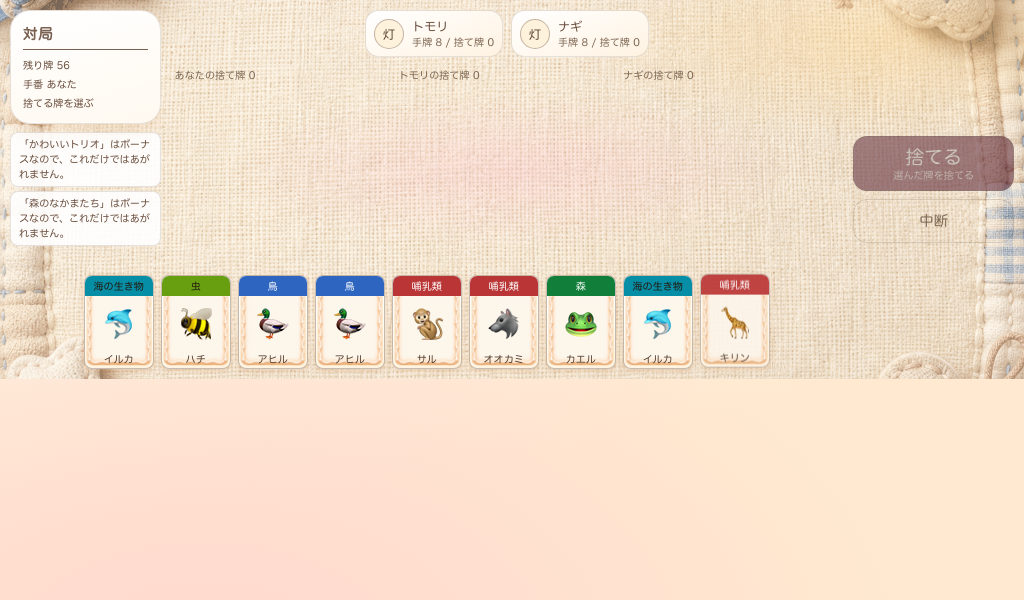
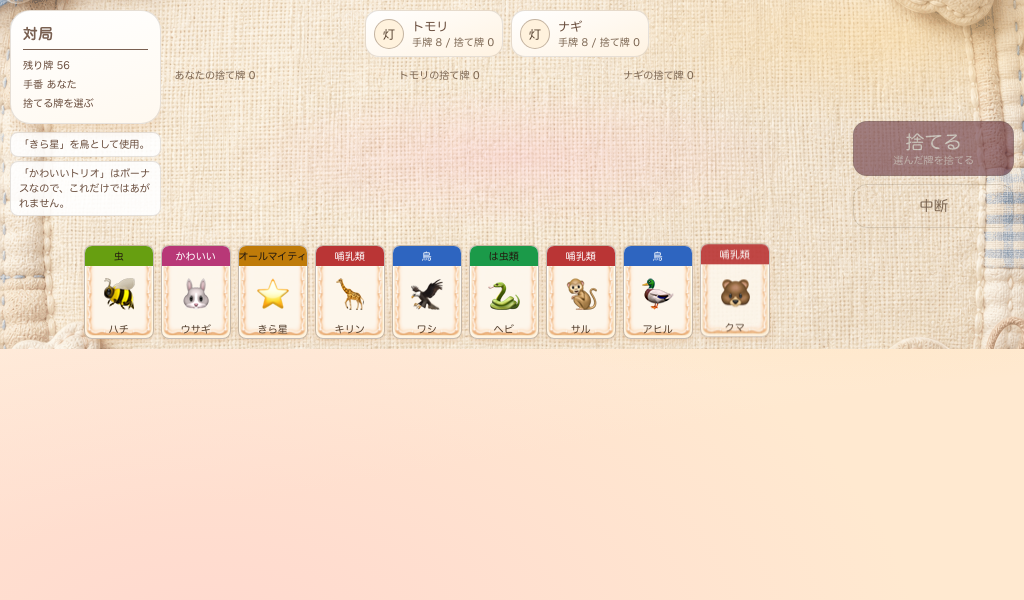
docs(qa): correct Gate 6 totals and recovery guarantees
Two inaccuracies in the Batch 6 / Gate 6 report, found by re-running
every verification command fresh rather than trusting the prior
report's numbers:

1. Total automated check count. The original "430" figure
   (330 + 70 + 5 + 7 + 18) correctly avoided double-counting
   pnpm skin:validate's 18 tests (they are the identical 18 test cases
   already inside pnpm test's 330 — skin:validate just re-runs one
   already-covered file narrower) but accidentally omitted
   asset:image:test's 92 independent pytest cases entirely. A naive
   sum of every number in the summary table ("540") makes the opposite
   mistake, double-counting skin:validate's 18. Both errors resolve to
   the same corrected figure: 330 + 92 + 70 + 5 + 7 + 18 = 522
   independent pass/fail test cases, with pnpm typecheck and pnpm build
   now labeled as separate verification results rather than folded
   into the test-case count.

2. "Lossless" recovery wording. The report described quota-exceeded
   write recovery and corrupted-deck-entry salvage as producing "zero
   data loss," without stating the actual guarantee boundary. Quota-
   exceeded recovery keeps the in-session draft on screen and does not
   overwrite already-persisted data, but does not guarantee recovering
   an unsaved draft after a reload. Corrupted-entry salvage keeps
   healthy, unrelated deck entries from being wiped out by one bad
   entry, but does not itself fully recover a genuinely unrecoverable
[…]

diff --git a/docs/qa/BATCH-6-GATE-6-REPORT.md b/docs/qa/BATCH-6-GATE-6-REPORT.md
@@ -180,16 +180,40 @@ green.
   monkey-patch (real quota exhaustion is not practical to trigger in a
   test environment) at both the unit-test and real-browser level.
   Converted to a translated `StorageWriteError`, shown via `Toast`.
+  **Guarantee scope (precise, not "lossless"):** on a quota-exceeded
+  write, the in-session draft remains visible on screen (DeckEditor/
+  the import modal does not navigate away or discard the pasted text),
+  the user receives a Toast notification, and previously *persisted*
+  data is not overwritten or destroyed (the failed write never reaches
+  `setItem`, so whatever was already saved stays exactly as it was).
+  **Not guaranteed**: recovery of the unsaved draft after a reload —
+  if the user reloads or closes the tab while the quota-exceeded toast
+  is showing, the in-memory draft is gone, same as any unsaved web-app
+  form state. This was not tested as "recoverable after reload" and is
+  not claimed as such.
 - **Partial writes**: not separately simulated (no evidence this app
   performs multi-step writes that could be left half-complete — each
   store write is a single `setItem` call with a fully-serialized JSON
   string, so there is no intermediate state to corrupt).
 - **User-facing recovery**: reset path (TOP → "ローカルデータを初期化…")
   unchanged from Batch 5, re-confirmed still visible and functional.
-- **Data loss risk**: for the scenarios tested, zero — either full
-  recovery, partial recovery preserving everything possible, or (for
-  genuinely unrecoverable payloads) quarantine to a backup key rather
-  than deletion.
+- **Corrupted-entry (migration/salvage) guarantee scope (precise, not
+  "fully recoverable"):** valid deck entries — including ones
+  recoverable via `migrateLegacyDeck()` — are salvaged individually and
+  kept. An entry that is genuinely malformed (not valid under the
+  current schema and not migratable from a known legacy schema) is
+  **dropped from the active deck list**, not silently restored; it is
+  preserved only in the raw form inside the `*.corrupt-backup` key,
+  which the app does not automatically re-parse or offer to restore.
+  Dropping such an entry no longer causes *other, unrelated healthy
+  decks* to be lost — that is the actual fix this batch. It does not
+  mean every corrupted entry itself comes back.
+- **Data loss risk, summarized precisely**: zero risk to *other,
+  unaffected* data in every scenario tested (a bad entry no longer
+  takes down healthy entries; a failed write no longer overwrites
+  already-persisted data). The specific unrecoverable/unsaved item
+  itself is not always restorable — see the two guarantee-scope notes
+  above.
 
 ## Performance
 
@@ -328,19 +352,50 @@ snapshot. See commit `2bfc50e`.
 ## Verification
 
 ```text
-pnpm typecheck:       PASS
-pnpm test:            330/330 PASS (314 pre-existing + 16 new)
-pnpm skin:validate:   18/18 PASS (unchanged)
-pnpm asset:image:test: 92/92 PASS (unchanged)
-pnpm build:           PASS
-pnpm test:visual:     70/70 PASS (56 pre-existing + 14 new)
-Gate 6 browser scripts (Chromium automation, not unit tests):
+pnpm typecheck:       PASS  (verification result, not a test case — see note below)
+pnpm test:            330/330 PASS (314 pre-existing + 16 new; this vitest run
+                       already includes the 18 skin-contract tests below as one
+                       of its 27 test files — see "Total" note)
+pnpm skin:validate:   18/18 PASS — SAME 18 test cases as inside pnpm test above
+                       (`vitest run src/ui/skins/skinValidate.test.ts` is a
+                       narrower re-run of one file already covered by `pnpm
+                       test`). Not counted again in the total below.
+pnpm asset:image:test: 92/92 PASS (unchanged; independent pytest suite, not
+                       covered by pnpm test)
+pnpm build:           PASS  (verification result, not a test case)
+pnpm test:visual:     70/70 PASS (56 pre-existing + 14 new; independent
+                       Playwright suite)
+Gate 6 browser scripts (Chromium automation via standalone .mjs scripts,
+not registered with any test runner — pass/fail counted by the scripts'
+own assertions, independent of the suites above):
   gate6-qa-01 (migration/storage recovery):   5/5 PASS
   gate6-qa-02 (performance):                   spot-check, no pass/fail gate
   gate6-qa-03 (rollback rehearsal):            7/7 PASS
   gate6-qa-04 (accessibility acceptance):     18/18 PASS
-Total automated pass/fail checks this batch: 330 + 70 + 5 + 7 + 18 = 430
 ```
+
+**Total: 522 independent pass/fail test cases** (330 + 92 + 70 + 5 + 7 + 18),
+**plus `pnpm typecheck` and `pnpm build` as separate verification results**
+(neither is a pass/fail test case with a count; both are single
+PASS/FAIL commands).
+
+This corrects two earlier miscounts from this batch's own first report:
+
+- **"430"** (the number first reported) = 330 + 70 + 5 + 7 + 18. It
+  correctly avoided double-counting `skin:validate`'s 18 (a genuine
+  subset of the 330), but it accidentally *omitted*
+  `asset:image:test`'s 92 entirely — an independent suite that should
+  have been included. 430 + 92 = 522.
+- **"540"** (a naive sum of every number in the summary table,
+  330 + 18 + 92 + 70 + 30) double-counts `skin:validate`'s 18 test
+  cases, since they are the identical 18 cases already inside the 330
+  from `pnpm test` — `skin:validate` just re-runs one file narrower,
+  it does not add new coverage. 540 − 18 = 522.
+
+Both errors independently resolve to the same corrected figure, **522**,
+which is the number of genuinely distinct, independently-executable
+pass/fail test cases run this batch, with no suite's cases counted
+under two different labels.
 
 ### CI and Playwright
 
@@ -372,6 +427,40 @@ Batch 5's), not a CI-blocking check. If CI-based visual regression is
 wanted later, it should be scoped as its own follow-up (Linux baselines
 or a dedicated visual-regression CI job with browser caching), not
 folded silently into this gate.
+
+## Evidence Inventory (`docs/qa/evidence/batch-6/`)
+
+Re-verified 2026-07-21 by direct enumeration
+(`find docs/qa/evidence/batch-6 -type f`) and cross-checked against
+`git ls-files docs/qa/evidence/batch-6` — all 14 files are git-tracked,
+none are gitignored artifacts.
+
+```text
+PNG screenshots:  10
+JSON evidence:     4
+Logs:              0
+Markdown/other:    0
+Total:            14
+```
+
+Breakdown by subdirectory:
+
+```text
+accessibility/    5  (4 PNG, 1 JSON)
+migration/         1  (1 PNG)
+performance/       1  (1 JSON)
+rollback/          5  (4 PNG, 1 JSON)
+storage-recovery/  1  (1 PNG)
+(gate6-script-01-summary.json at the evidence root) 1 (1 JSON)
+```
+
+This is distinct from — and much smaller than — Batch 5's 138-file
+evidence set, because Gate 6 relies more heavily on unit tests
+(16 new cases in `gate6StorageRecovery.test.ts`, not screenshot-based)
+and on the 14 new Playwright visual-regression baselines (tracked under
+`tests/visual/gate6-recovery-states.spec.ts-snapshots/`, a separate
+location from `docs/qa/evidence/`, consistent with how Batch 5's own
+Playwright baselines were organized).
 
 ## Issue Summary
 
@@ -424,8 +513,10 @@ scope carried from Gate 4/5 — Gate 6 does not expand it).
 - Accessibility acceptance basics met via semantic/programmatic
   inspection; real screen-reader verification remains an explicitly
   recorded environment limitation, not claimed.
-- All automated verification green (430 pass/fail checks this batch,
-  0 failing), CI green (pending push confirmation — see final report),
+- All automated verification green (522 pass/fail test cases this
+  batch, plus `pnpm typecheck` and `pnpm build` as separate verification
+  results — see "Verification" above for the full accounting — 0
+  failing), CI green (pending push confirmation — see final report),
   worktree clean.
 
 **RC readiness: LIMITED READY** — ready for a release-candidate

diff --git a/docs/release/STORAGE-RECOVERY-POLICY.md b/docs/release/STORAGE-RECOVERY-POLICY.md
@@ -8,22 +8,47 @@ evidence.
 
 ## Principles
 
-1. **Never destroy data the app doesn't have to.** A single corrupted or
-   legacy-schema deck entry must not take down the whole deck list.
+1. **Never destroy *other, unaffected* data the app doesn't have to.** A
+   single corrupted or legacy-schema deck entry must not take down the
+   whole deck list. This does not mean the corrupted entry itself is
+   always recovered — see "Guarantee scope" below.
 2. **Never fail silently.** Every recovery action surfaces a
    Japanese-language `ValidationIssue` (read path, shown as a `Toast` on
    boot) or throws a catchable, translated error (write path, shown as a
    `Toast` at the point of the failed action).
-3. **Never lose an in-progress user edit on a storage failure.** If a
-   save fails (e.g. quota exceeded), the screen that was mid-edit
-   (DeckEditor, the import modal) stays open with the user's input
-   intact — it does not navigate away as if the save had succeeded.
+3. **Never lose an in-progress user edit *while the screen stays
+   open*.** If a save fails (e.g. quota exceeded), the screen that was
+   mid-edit (DeckEditor, the import modal) stays open with the user's
+   input intact — it does not navigate away as if the save had
+   succeeded. This is an in-session guarantee only: it does not cover
+   recovery after a reload or tab close while unsaved — see "Guarantee
+   scope" below.
 4. **Prefer partial recovery to full reset.** When only some data is
-   unrecoverable, keep everything else.
+   unrecoverable, keep everything else that is recoverable.
 5. **No speculative migration framework.** Reuse the deterministic,
    already-existing `migrateLegacyDeck()` (deck-schema version 0 → 1).
    Do not add a generic multi-step migration runner until a second real
    schema version actually exists.
+
+## Guarantee scope (read this before calling anything "lossless")
+
+Do not describe this policy as making recovery "lossless" without
+qualification — it doesn't, in two specific, bounded ways:
+
+- **Quota-exceeded writes**: the in-session draft stays visible and
+  editable on screen, the user is notified via `Toast`, and
+  already-*persisted* data is never overwritten by the failed write.
+  What is **not** guaranteed: if the user reloads or closes the tab
+  while that unsaved draft exists, the draft itself is gone — same as
+  any ordinary unsaved web-form state. There is no autosave-to-a-
+  separate-key mechanism.
+- **Corrupted/unrecoverable deck entries**: an entry that fails both
+  the current schema and legacy-migration is dropped from the active
+  deck list, not restored. It is preserved only as raw, unparsed JSON
+  inside a `*.corrupt-backup` key — the app does not automatically
+  re-attempt parsing it or offer a restore UI for it. The guarantee is
+  that *other, healthy* entries are no longer taken down with it —
+  not that the corrupted entry itself comes back.
 
 ## Read path (localStorage → app state)
 

diff --git a/CLAUDE.md b/CLAUDE.md
@@ -135,6 +135,18 @@ Batch 6(Gate 6: Release Candidate hardening)は完了(2026-07-21)。
   docs/release/STORAGE-RECOVERY-POLICY.md、
   docs/release/CACHE-AND-ROLLBACK-RUNBOOK.md、
   docs/qa/evidence/batch-6/。
+  Batch 6訂正(2026-07-21、同日中): 初回報告の自動チェック総数
+  「430」は二重集計なしだったがasset:image:test(92件)を集計から
+  漏らしていた誤りで、単純合計「540」はskin:validateの18件を
+  pnpm testの330件と二重計上した誤りだった。両者を訂正した正しい
+  独立チェック総数は**522件**(330+92+70+5+7+18、typecheck/buildは
+  test caseでなくverification resultとして別扱い)。同時に
+  「lossless」という表現も、quota超過時(セッション内draftは保持・
+  永続データは破壊しないが、reload後のdraft復元は保証しない)と
+  corrupted entry salvage(健全な他deckを道連れにしないだけで、
+  救済不能な当該entry自体の完全復元は保証しない)を区別する
+  正確な表現へ訂正した。詳細: docs/qa/BATCH-6-GATE-6-REPORT.mdの
+  Verification節/Storage Recovery節。
   次の固定タスク(未着手・要明示指示): 上記RC readinessのopen item群
   (実screen reader受入、非Chromium browser検証、長時間memory soak、
   実deploy環境rollback)のいずれかを明示指示で着手するか、Gate 7/8
